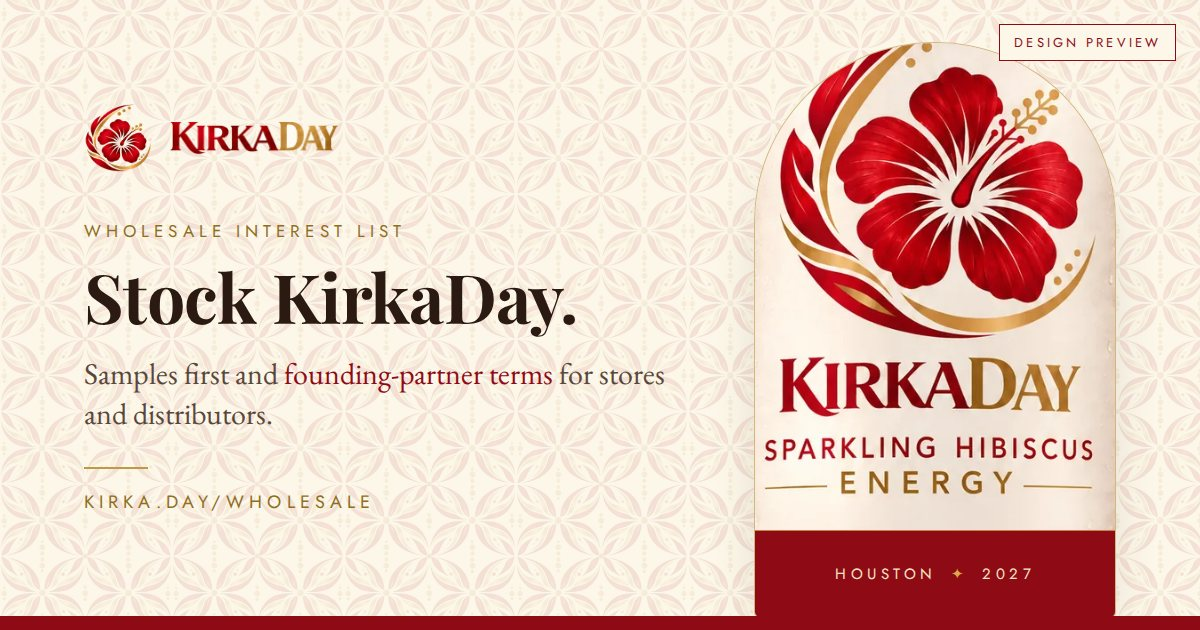
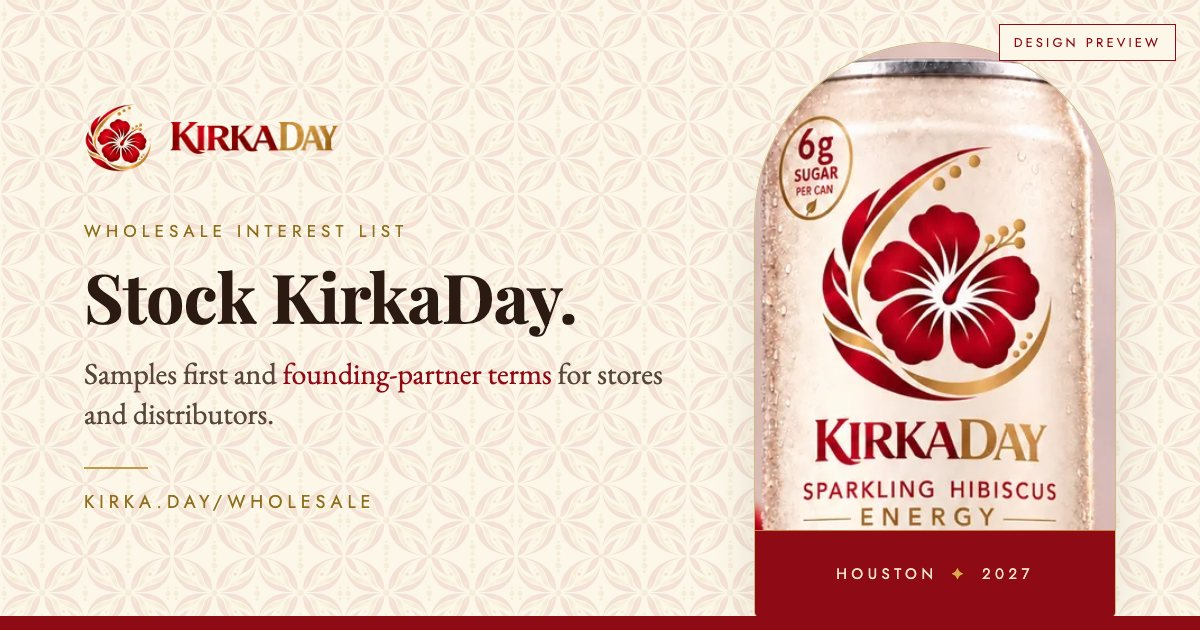
Swap the hero can for the new hibiscus design and drop the old renders, so the site and share previews show the current can.

diff --git a/index.html b/index.html
@@ -28,7 +28,7 @@
 
 <link rel="preconnect" href="https://fonts.googleapis.com">
 <link rel="preconnect" href="https://fonts.gstatic.com" crossorigin>
-<link rel="preload" as="image" imagesrcset="/assets/can-beauty-450.webp 450w, /assets/can-beauty-900.webp 900w" imagesizes="(max-width: 900px) 100vw, 450px" type="image/webp">
+<link rel="preload" as="image" imagesrcset="/assets/can-hibiscus-450.webp 450w, /assets/can-hibiscus-900.webp 900w" imagesizes="(max-width: 900px) 100vw, 450px" type="image/webp">
 <link href="https://fonts.googleapis.com/css2?family=Playfair+Display:ital,wght@0,500;0,600;0,700;1,400;1,500&family=EB+Garamond:ital,wght@0,400;0,500;1,400&family=Jost:wght@300;400;500&display=swap" rel="stylesheet">
 <link rel="stylesheet" href="/assets/site.css">
 
@@ -192,7 +192,7 @@
         <figure data-parallax="0.05" style="position:relative;width:100%;max-width:450px;margin:0">
           <div style="position:relative">
             <div data-hero-frame="1" style="position:relative;overflow:hidden;border:1px solid rgba(190,154,66,0.55);border-radius:225px 225px 6px 6px;box-shadow:0 40px 80px -40px rgba(43,26,18,0.35)">
-              <picture><source type="image/webp" srcset="/assets/can-beauty-450.webp 450w, /assets/can-beauty-900.webp 900w" sizes="(max-width: 900px) 100vw, 450px"><img src="/assets/can-beauty-900.jpg" alt="KirkaDay sparkling hibiscus energy can, design preview" width="1024" height="1536" fetchpriority="high" style="display:block;width:100%;height:auto"></picture>
+              <picture><source type="image/webp" srcset="/assets/can-hibiscus-450.webp 450w, /assets/can-hibiscus-900.webp 900w" sizes="(max-width: 900px) 100vw, 450px"><img src="/assets/can-hibiscus-900.jpg" alt="KirkaDay sparkling hibiscus energy can, design preview" width="1122" height="1402" fetchpriority="high" style="display:block;width:100%;height:auto"></picture>
             </div>
             <div style="position:absolute;left:-14px;bottom:26px;writing-mode:vertical-rl;transform:rotate(180deg);font-size:10px;letter-spacing:0.3em;text-transform:uppercase;color:#8F6E1E">12 fl oz · 355 mL</div>
           </div>

diff --git a/scripts/og/template.html b/scripts/og/template.html
@@ -44,7 +44,7 @@
     <div class="rule"></div>
     <div class="url">kirka.day<span id="path"></span></div>
   </div>
-  <div class="can"><img src="../../assets/can-beauty-900.webp" alt=""><div class="plate">Houston <i>✦</i> 2027</div></div>
+  <div class="can"><img src="../../assets/can-hibiscus-900.webp" alt=""><div class="plate">Houston <i>✦</i> 2027</div></div>
   <div class="tag">Design preview</div>
   <div class="band"></div>
   <script>
